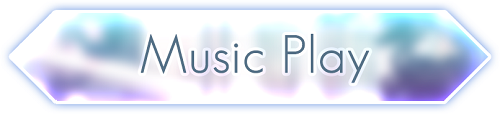
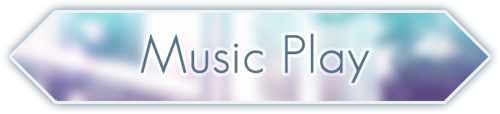
完善主页

Changed region(s): [[0.0, 0.0526, 0.99, 0.9474], [0.03, 0.2895, 0.06, 0.4211]]

diff --git a/src/team/seine/ephemelody/scenes/Home.java b/src/team/seine/ephemelody/scenes/Home.java
@@ -13,16 +13,17 @@ import java.awt.event.MouseMotionListener;
 import java.awt.font.GlyphVector;
 
 public class Home extends JPanel implements Scenes, MouseMotionListener, MouseListener{
-    int buttonRatingStatus = 0, buttonSetUpBackStatus = 0, buttonHomeStatus = 0, buttonEasyStatus = 0, buttonNormalStatus = 0, buttonDifficultStatus = 0;
+    int buttonRatingStatus = 0, buttonSetUpBackStatus = 0, buttonHomeStatus = 0, buttonEasyStatus = 0, buttonNormalStatus = 0, buttonDifficultStatus = 0,
+            buttonPlayStatus = 0;
     public Double rate; //潜力值
-    public Image ratingButton[];
+    public Image[] ratingButton;
     public Image setupButton;
-    public Image setupBackButton[];
-    public Image playButton;
-    public Image homeButton[];
-    public Image easyButton[];
-    public Image normalButton[];
-    public Image difficultButton[];
+    public Image[] setupBackButton;
+    public Image[] playButton;
+    public Image[] homeButton;
+    public Image[] easyButton;
+    public Image[] normalButton;
+    public Image[] difficultButton;
     public Image upButton;
     public Image downButton;
     public Image song1;
@@ -39,9 +40,11 @@ public class Home extends JPanel implements Scenes, MouseMotionListener, MouseLi
         setupBackButton = new Image[]{
                 Load.image("home/设置_未选中.png"), Load.image("home/设置_鼠标悬停.png"), Load.image("home/设置_按下.png")
         };
-        playButton = Load.image("home/start.png");
+        playButton = new Image[]{
+                Load.image("home/开始游戏.png"), Load.image("home/开始游戏_鼠标悬停.png"), Load.image("home/开始游戏_按下.png")
+        };
         homeButton = new Image[] {
-                Load.image("home/主页.png"), Load.image("home/主页_按下.png")
+                Load.image("home/主页.png"), Load.image("home/主页_鼠标悬停.png"), Load.image("home/主页_按下.png")
         };
         easyButton = new Image[] {
                 Load.image("home/简单.png"), Load.image("home/简单_鼠标悬停.png"), Load.image("home/简单_按下.png")
@@ -76,7 +79,7 @@ public class Home extends JPanel implements Scenes, MouseMotionListener, MouseLi
 
     public void onMouse(int x, int y, int struts) {
 //        System.out.println(x + " " + y);
-        buttonRatingStatus = buttonSetUpBackStatus = buttonHomeStatus = buttonEasyStatus = buttonNormalStatus = buttonDifficultStatus = 0;
+        buttonRatingStatus = buttonSetUpBackStatus = buttonHomeStatus = buttonEasyStatus = buttonNormalStatus = buttonDifficultStatus = buttonPlayStatus = 0;
 
         int buttonStruts = struts == Scenes.MOUSE_MOVED ? 1 : struts == Scenes.MOUSE_DOWN ? 2 : 0;
         // e.getY() 获取的坐标包含了 窗口标题栏的高度，判断点击位置时，需要减去，如果监听鼠标事件时，监听对象为JPanel，则不需要此步骤,, 本程序监听的是JFrame对象
@@ -111,8 +114,9 @@ public class Home extends JPanel implements Scenes, MouseMotionListener, MouseLi
 //                System.exit(0);
             }
         } else if (Rect.isInternal(x, y, 643, 750, 500, 114)) {
+            buttonPlayStatus = buttonStruts;
             if(struts == Scenes.MOUSE_DOWN) {
-//                Data.canvas.switchScenes("End");
+                Data.canvas.switchScenes("PlayInterface");
 //                System.exit(0);
             }
         }
@@ -122,7 +126,7 @@ public class Home extends JPanel implements Scenes, MouseMotionListener, MouseLi
         g.drawImage(easyButton[buttonEasyStatus], Data.WIDTH / 2 - 140, 580, null);
         g.drawImage(normalButton[buttonNormalStatus], Data.WIDTH / 2 + 140, 580, null);
         g.drawImage(difficultButton[buttonDifficultStatus], Data.WIDTH / 2 + 420, 580, null);
-        g.drawImage(playButton, Data.WIDTH / 2, 750, null);
+        g.drawImage(playButton[buttonPlayStatus], Data.WIDTH / 2, 750, null);
         g.drawImage(upButton, 100, 60, null);
         g.drawImage(downButton, 100, 800, null);
         g.drawImage(ratingButton[buttonRatingStatus], Data.WIDTH / 2 - 60, -16, null);

diff --git a/src/team/seine/ephemelody/main/Canvas.java b/src/team/seine/ephemelody/main/Canvas.java
@@ -35,12 +35,12 @@ public class Canvas extends JLayeredPane{
             this.nowScenes = new End();
             this.removeAll();
             this.add((End) nowScenes, new Integer(1));
-        } else if (name.equals("PlayInterFace")) {
-            this.nowScenes = new PlayInterface(1, 1);
+        } else if (name.equals("PlayInterface")) {
+//            this.nowScenes = new PlayInterface(1, 1);
             this.bgScenes = new Background();
             this.removeAll();
             this.add((Background) bgScenes, new Integer(0));
-            this.add((PlayInterface) nowScenes, new Integer(1));
+//            this.add((PlayInterface) nowScenes, new Integer(1));
         }
     }
 
